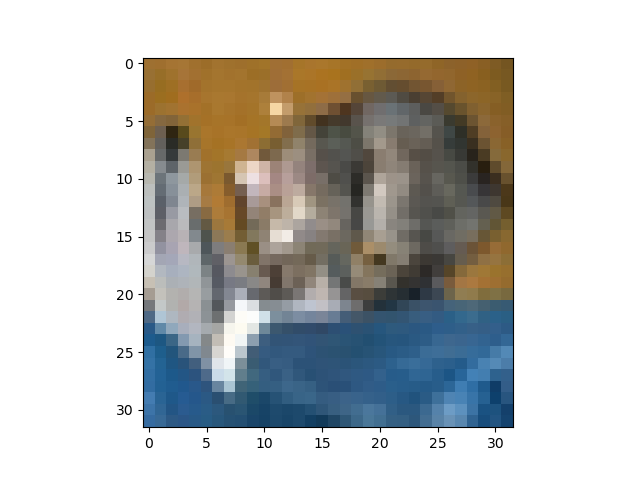
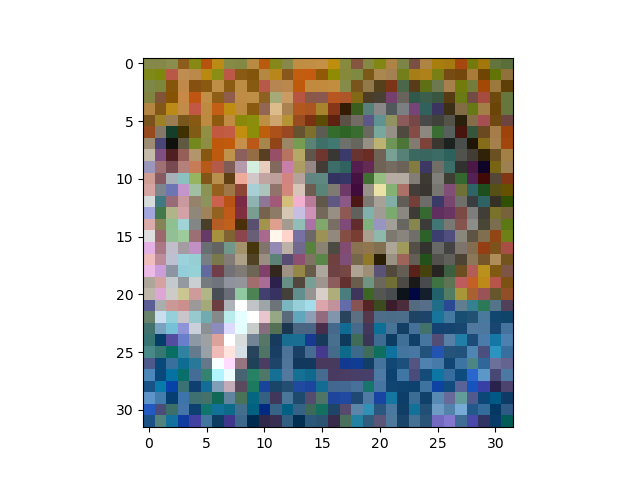
Inserted correct attacked image

diff --git a/ThirdMidterm/main.py b/ThirdMidterm/main.py
@@ -129,7 +129,7 @@ if __name__ == '__main__':
     # run_model(m, tr_set, tr_labels, tr_labels_one_hot, "Training", True)
     # run_model(m, ts_set, ts_labels, ts_labels_one_hot, "Test", True)
 
-    eps_attack = 0.001
-    # attack_pattern(m, ts_set[0], ts_labels_one_hot[0], eps_attack, True, None, True)
-    ts_set_adversary = add_noise_set(m, ts_set, ts_labels_one_hot, len(ts_set), eps_attack)
-    run_model(m, ts_set_adversary, ts_labels, ts_labels_one_hot, "Test adversary eps={0}".format(eps_attack), True)
+    eps_attack = 0.1
+    attack_pattern(m, ts_set[0], ts_labels_one_hot[0], eps_attack, True, None, True)
+    # ts_set_adversary = add_noise_set(m, ts_set, ts_labels_one_hot, len(ts_set), eps_attack)
+    # run_model(m, ts_set_adversary, ts_labels, ts_labels_one_hot, "Test adversary eps={0}".format(eps_attack), True)
